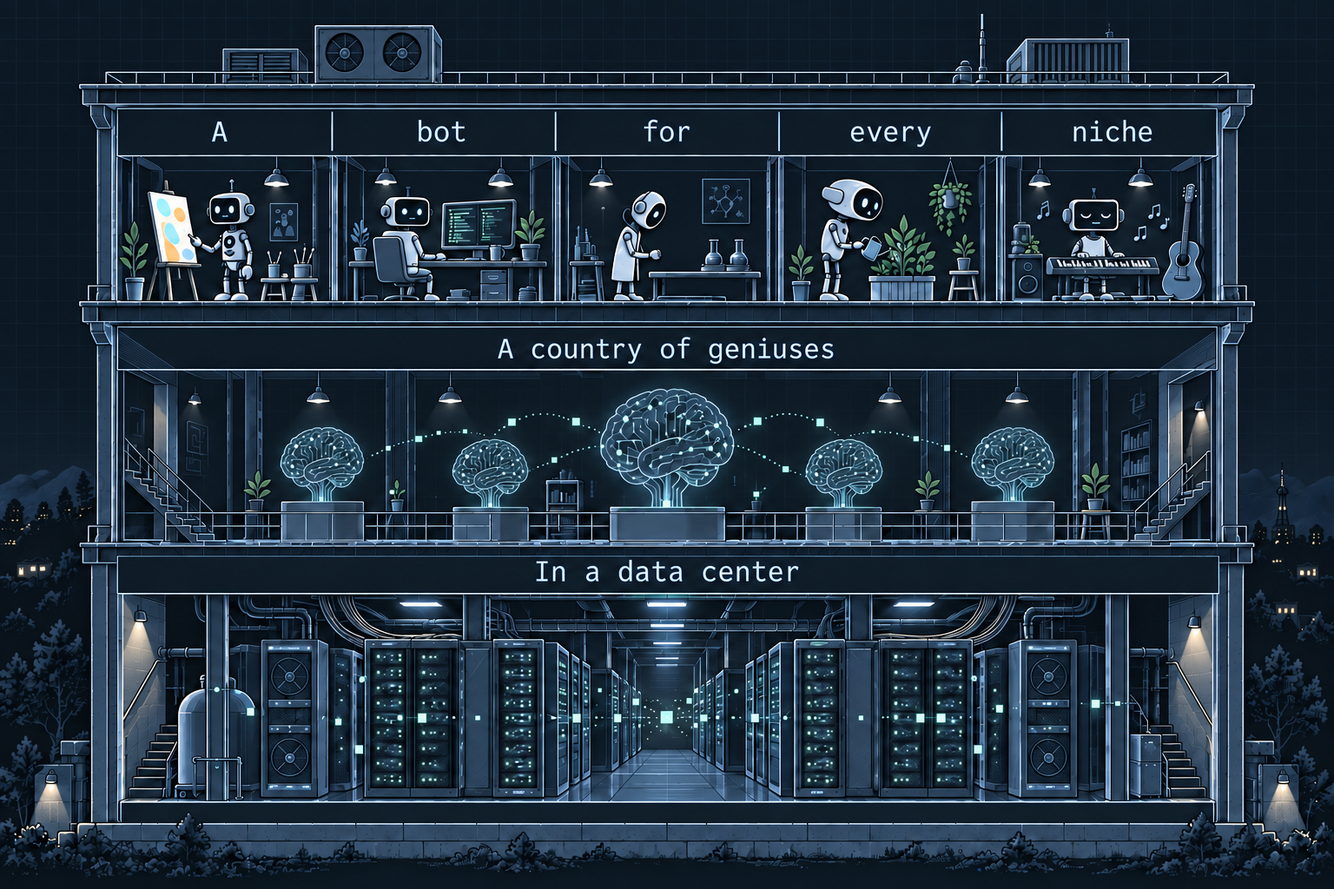
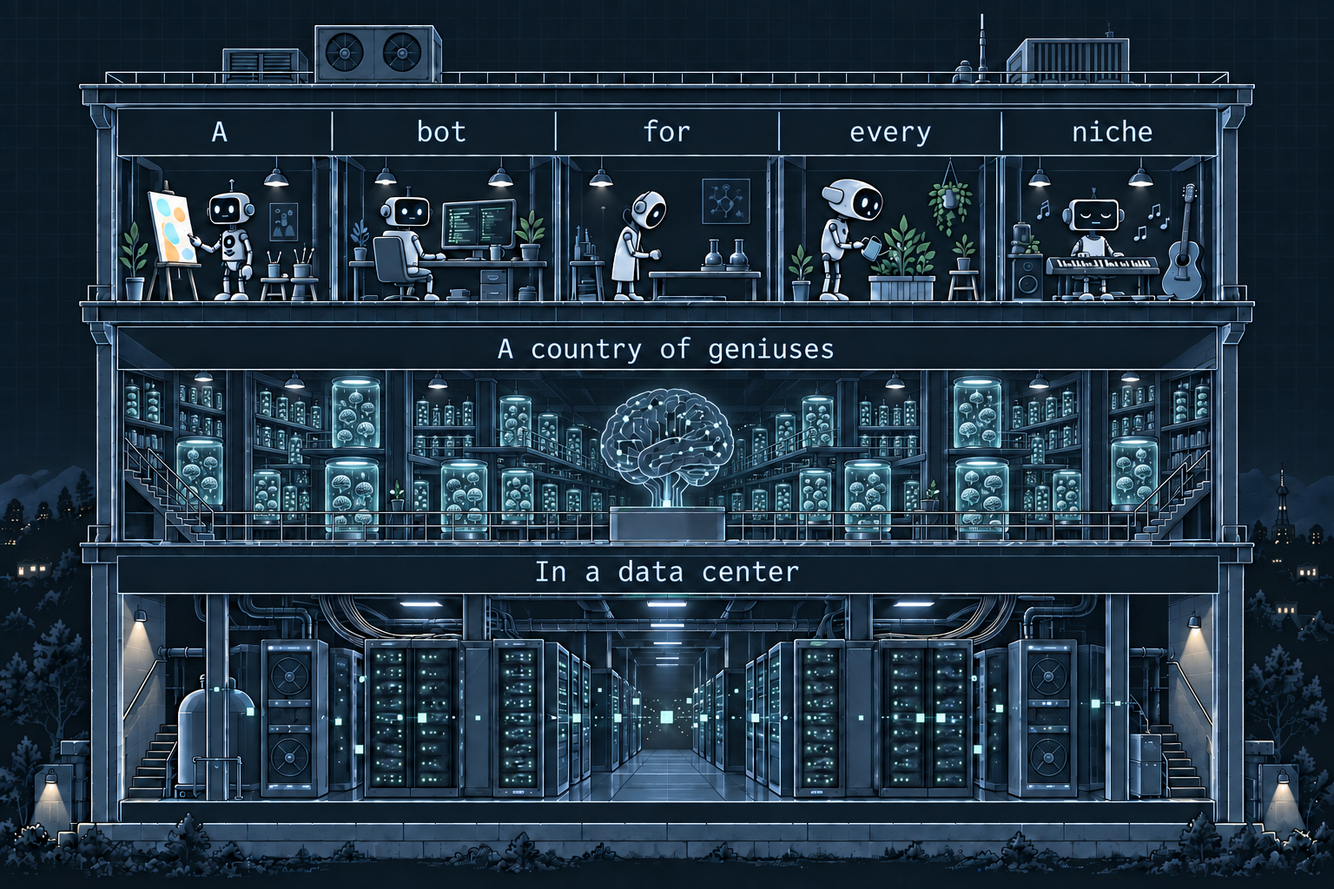
Fill AI 2026 genius floor with a country of brains

diff --git a/public/posts/ai2026-pt1/intro/building-intro.js b/public/posts/ai2026-pt1/intro/building-intro.js
@@ -4,8 +4,8 @@ if(customElements.get('ai-building-intro'))return;
 class AIBuildingIntro extends HTMLElement{
 connectedCallback(){
 if(this.shadowRoot)return;
-const root=this.attachShadow({mode:'open'});root.innerHTML="<style>\n:host{display:block;background:#0b1015;color:#d8e2ee;--intro-top:58px;font-family:ui-monospace,SFMono-Regular,Consolas,monospace;contain:style}\n*{box-sizing:border-box}.section{height:270svh;position:relative}.pin{position:sticky;top:var(--intro-top);height:calc(100svh - var(--intro-top));display:flex;flex-direction:column;overflow:hidden;background:#0b1015}.heading{flex:none;text-align:center;padding:18px 20px 10px}.eyebrow{font-size:12px;letter-spacing:.12em;color:#9aafbf;margin:0 0 7px}h1{font-size:clamp(24px,3vw,38px);font-weight:400;margin:0;line-height:1.2}.viewport{flex:1;min-height:0;display:flex;align-items:center;justify-content:center;overflow:hidden}.camera{position:relative;width:min(100%,calc((100svh - 200px)*1.5));aspect-ratio:3/2;flex:none;transform-origin:50% 80%;will-change:transform}.camera img,.camera svg{width:100%;height:100%;display:block}.camera img{position:relative}.camera svg{position:absolute;inset:0;overflow:visible;pointer-events:none}.controls{flex:none;display:flex;align-items:center;justify-content:center;gap:22px;padding:10px 16px 15px;background:#0b1015;font-size:12px}.skip{color:#a6bacb;text-decoration:none}.skip:hover{text-decoration:underline}a:focus-visible{outline:2px solid #baffea;outline-offset:3px}\n.server,.brain,.bot,.cursor,.drop{fill:#c7fff0;filter:drop-shadow(0 0 5px #80edda);opacity:.05;animation-delay:var(--delay)}.server{animation:server-pulse 2.4s ease-in-out infinite;animation-delay:var(--delay)}.rack{fill:#81edce;opacity:0;animation:rack-pulse 2.4s ease-in-out infinite;animation-delay:var(--delay)}.brain{animation:brain-beat 4s ease-in-out infinite;animation-delay:var(--delay)}.brain-halo{fill:#8af6df;filter:blur(3px);opacity:0;animation:brain-halo 4s ease-in-out infinite;animation-delay:var(--delay)}.bot{animation:bot-glint 3.8s ease-in-out infinite;animation-delay:var(--delay)}.cursor{animation:cursor-blink 1.8s steps(1) infinite;animation-delay:var(--delay)}.drop{animation:water 3.8s ease-in-out infinite;animation-delay:var(--delay)}.note{fill:none;stroke:#c5efff;stroke-width:2.5;opacity:0;filter:drop-shadow(0 0 3px #8ccfe8);animation:music 3.8s ease-in-out infinite;animation-delay:var(--delay)}\n@keyframes server-pulse{0%,100%{opacity:.03}42%{opacity:1}70%{opacity:.2}}@keyframes rack-pulse{0%,100%{opacity:0}42%{opacity:.09}70%{opacity:.01}}@keyframes brain-beat{0%,18%,100%{opacity:.02}5%,10%{opacity:1}}@keyframes brain-halo{0%,18%,100%{opacity:0}5%,10%{opacity:.42}}@keyframes bot-glint{0%,12%,50%,100%{opacity:.03}24%,34%{opacity:.95}}@keyframes cursor-blink{0%,55%{opacity:.85}56%,100%{opacity:0}}@keyframes water{0%,14%,55%,100%{opacity:0;transform:translateY(0)}22%{opacity:.9}48%{opacity:0;transform:translateY(14px)}}@keyframes music{0%,10%,58%,100%{opacity:0;transform:translateY(0)}23%{opacity:.95}53%{opacity:0;transform:translateY(-13px)}}\n:host([data-offscreen]) svg *{animation-play-state:paused!important}\n:host([preview]) .section{height:auto}:host([preview]) .pin{position:relative;top:0;height:auto;min-height:0}:host([preview]) .heading,:host([preview]) .skip{display:none}:host([preview]) .camera{width:100%;max-width:1400px}:host([preview]) .viewport{flex:none}:host([preview]) .controls{display:none}\n@media(max-width:760px){:host{--intro-top:52px}.section{height:220svh}.camera{width:100%}.heading{padding-top:24px}.controls{gap:15px}.pin{min-height:400px}}\n@media(prefers-reduced-motion:reduce){:host(:not([data-motion=play])) svg *{animation:none!important}.section{height:auto}.pin{position:relative;top:0;height:auto}.camera{width:100%;transform:none!important}.viewport{flex:none}.heading{padding:24px 16px}}\n.paint-brush{transform-origin:224px 278px;animation:brush-sweep 2.5s ease-in-out infinite alternate}.paint-stroke{stroke-dasharray:50;animation:paint-reveal 5s ease-in-out infinite}.code-flow{animation:matrix-flow 2.4s linear infinite}.scanline{animation:screen-scan 2.3s linear infinite}.lab-head{animation:lab-travel 3.6s ease-in-out infinite}.pipette-drop{animation:pipette 1.8s ease-in-out infinite}.water-stream{stroke-dasharray:3 4;animation:flowing-water .7s linear infinite;opacity:.85}.splash{animation:water-splash .7s ease-in-out infinite alternate}.music-note{animation:music-frequent 1.8s ease-out infinite;animation-delay:var(--delay);filter:drop-shadow(0 0 2px #a0ddec)}\n@keyframes brush-sweep{from{transform:rotate(-27deg)}to{transform:rotate(24deg)}}\n@keyframes paint-reveal{0%{stroke-dashoffset:50;opacity:.15}45%,70%{stroke-dashoffset:0;opacity:.8}100%{stroke-dashoffset:0;opacity:.15}}\n@keyframes matrix-flow{from{transform:translateY(0)}to{transform:translateY(-35px)}}\n@keyframes screen-scan{from{transform:translateY(-8px)}to{transform:translateY(38px)}}\n@keyframes lab-travel{0%,12%,100%{transform:translateX(0)}45%,62%{transform:translateX(12px)}}\n@keyframes pipette{0%,55%,100%{opacity:0;transform:translateY(0)}65%{opacity:.9}90%{opacity:0;transform:translateY(7px)}}\n@keyframes flowing-water{to{stroke-dashoffset:-21}}\n@keyframes water-splash{from{opacity:.3}to{opacity:.9}}\n@keyframes music-frequent{0%{opacity:0;transform:translate(0,5px)}12%,40%{opacity:1}100%{opacity:0;transform:translate(5px,-21px)}}\n</style><section class=\"section\"><div class=\"pin\"><div class=\"heading\"><p class=\"eyebrow\">AI 2026 / PART 1</p><h1>In a data center</h1></div><div class=\"viewport\"><div class=\"camera\"><img alt=\"Three floors: a bot for every niche; a country of geniuses; in a data center.\" width=\"1536\" height=\"1024\" decoding=\"async\" fetchpriority=\"high\"><svg viewBox=\"0 0 1536 1024\" aria-hidden=\"true\"><g class=\"floor-labels\" font-family=\"ui-monospace, SFMono-Regular, Consolas, monospace\" font-size=\"31\" font-weight=\"400\" text-anchor=\"middle\" fill=\"#d8e9f7\">\n<path d=\"M142 132H372V173H142ZM396 132H628V173H396ZM652 132H884V173H652ZM910 132H1140V173H910ZM1167 132H1395V173H1167Z\" fill=\"#0d1923\"/>\n<text x=\"253\" y=\"162\">A</text><text x=\"511\" y=\"162\">bot</text><text x=\"767\" y=\"162\">for</text><text x=\"1024\" y=\"162\">every</text><text x=\"1278\" y=\"162\">niche</text>\n<path d=\"M557 382H980V419H557Z\" fill=\"#0d1923\"/>\n<text x=\"768\" y=\"413\">A country of geniuses</text>\n<path d=\"M552 643H984V678H552Z\" fill=\"#0d1923\"/>\n<text x=\"768\" y=\"669\">In a data center</text>\n</g>\n<rect x=\"433\" y=\"775\" width=\"5\" height=\"3\" rx=\"1\" class=\"server\" style=\"--delay:0.0s\"/><rect x=\"433\" y=\"792\" width=\"5\" height=\"3\" rx=\"1\" class=\"server\" style=\"--delay:0.0s\"/><rect x=\"433\" y=\"843\" width=\"5\" height=\"3\" rx=\"1\" class=\"server\" style=\"--delay:0.0s\"/><rect x=\"433\" y=\"861\" width=\"5\" height=\"3\" rx=\"1\" class=\"server\" style=\"--delay:0.0s\"/><rect x=\"433\" y=\"897\" width=\"5\" height=\"3\" rx=\"1\" class=\"server\" style=\"--delay:0.0s\"/><rect x=\"450\" y=\"756\" width=\"5\" height=\"3\" rx=\"1\" class=\"server\" style=\"--delay:-0.12s\"/><rect x=\"450\" y=\"775\" width=\"5\" height=\"3\" rx=\"1\" class=\"server\" style=\"--delay:-0.12s\"/><rect x=\"450\" y=\"809\" width=\"5\" height=\"3\" rx=\"1\" class=\"server\" style=\"--delay:-0.12s\"/><rect x=\"450\" y=\"843\" width=\"5\" height=\"3\" rx=\"1\" class=\"server\" style=\"--delay:-0.12s\"/><rect x=\"450\" y=\"879\" width=\"5\" height=\"3\" rx=\"1\" class=\"server\" style=\"--delay:-0.12s\"/><rect x=\"450\" y=\"897\" width=\"5\" height=\"3\" rx=\"1\" class=\"server\" style=\"--delay:-0.12s\"/><rect x=\"489\" y=\"756\" width=\"5\" height=\"3\" rx=\"1\" class=\"server\" style=\"--delay:-0.24s\"/><rect x=\"489\" y=\"792\" width=\"5\" height=\"3\" rx=\"1\" class=\"server\" style=\"--delay:-0.24s\"/><rect x=\"489\" y=\"809\" width=\"5\" height=\"3\" rx=\"1\" class=\"server\" style=\"--delay:-0.24s\"/><rect x=\"489\" y=\"861\" width=\"5\" height=\"3\" rx=\"1\" class=\"server\" style=\"--delay:-0.24s\"/><rect x=\"489\" y=\"879\" width=\"5\" height=\"3\" rx=\"1\" class=\"server\" style=\"--delay:-0.24s\"/><rect x=\"499\" y=\"775\" width=\"5\" height=\"3\" rx=\"1\" class=\"server\" style=\"--delay:0.0s\"/><rect x=\"499\" y=\"792\" width=\"5\" height=\"3\" rx=\"1\" class=\"server\" style=\"--delay:0.0s\"/><rect x=\"499\" y=\"843\" width=\"5\" height=\"3\" rx=\"1\" class=\"server\" style=\"--delay:0.0s\"/><rect x=\"499\" y=\"861\" width=\"5\" height=\"3\" rx=\"1\" class=\"server\" style=\"--delay:0.0s\"/><rect x=\"499\" y=\"897\" width=\"5\" height=\"3\" rx=\"1\" class=\"server\" style=\"--delay:0.0s\"/><rect x=\"589\" y=\"756\" width=\"5\" height=\"3\" rx=\"1\" class=\"server\" style=\"--delay:-0.12s\"/><rect x=\"589\" y=\"775\" width=\"5\" height=\"3\" rx=\"1\" class=\"server\" style=\"--delay:-0.12s\"/><rect x=\"589\" y=\"809\" width=\"5\" height=\"3\" rx=\"1\" class=\"server\" style=\"--delay:-0.12s\"/><rect x=\"589\" y=\"843\" width=\"5\" height=\"3\" rx=\"1\" class=\"server\" style=\"--delay:-0.12s\"/><rect x=\"589\" y=\"879\" width=\"5\" height=\"3\" rx=\"1\" class=\"server\" style=\"--delay:-0.12s\"/><rect x=\"589\" y=\"897\" width=\"5\" height=\"3\" rx=\"1\" class=\"server\" style=\"--delay:-0.12s\"/><rect x=\"606\" y=\"756\" width=\"5\" height=\"3\" rx=\"1\" class=\"server\" style=\"--delay:-0.24s\"/><rect x=\"606\" y=\"792\" width=\"5\" height=\"3\" rx=\"1\" class=\"server\" style=\"--delay:-0.24s\"/><rect x=\"606\" y=\"809\" width=\"5\" height=\"3\" rx=\"1\" class=\"server\" style=\"--delay:-0.24s\"/><rect x=\"606\" y=\"861\" width=\"5\" height=\"3\" rx=\"1\" class=\"server\" style=\"--delay:-0.24s\"/><rect x=\"606\" y=\"879\" width=\"5\" height=\"3\" rx=\"1\" class=\"server\" style=\"--delay:-0.24s\"/><rect x=\"933\" y=\"775\" width=\"5\" height=\"3\" rx=\"1\" class=\"server\" style=\"--delay:0.0s\"/><rect x=\"933\" y=\"792\" width=\"5\" height=\"3\" rx=\"1\" class=\"server\" style=\"--delay:0.0s\"/><rect x=\"933\" y=\"843\" width=\"5\" height=\"3\" rx=\"1\" class=\"server\" style=\"--delay:0.0s\"/><rect x=\"933\" y=\"861\" width=\"5\" height=\"3\" rx=\"1\" class=\"server\" style=\"--delay:0.0s\"/><rect x=\"933\" y=\"897\" width=\"5\" height=\"3\" rx=\"1\" class=\"server\" style=\"--delay:0.0s\"/><rect x=\"950\" y=\"756\" width=\"5\" height=\"3\" rx=\"1\" class=\"server\" style=\"--delay:-0.12s\"/><rect x=\"950\" y=\"775\" width=\"5\" height=\"3\" rx=\"1\" class=\"server\" style=\"--delay:-0.12s\"/><rect x=\"950\" y=\"809\" width=\"5\" height=\"3\" rx=\"1\" class=\"server\" style=\"--delay:-0.12s\"/><rect x=\"950\" y=\"843\" width=\"5\" height=\"3\" rx=\"1\" class=\"server\" style=\"--delay:-0.12s\"/><rect x=\"950\" y=\"879\" width=\"5\" height=\"3\" rx=\"1\" class=\"server\" style=\"--delay:-0.12s\"/><rect x=\"950\" y=\"897\" width=\"5\" height=\"3\" rx=\"1\" class=\"server\" style=\"--delay:-0.12s\"/><rect x=\"1032\" y=\"756\" width=\"5\" height=\"3\" rx=\"1\" class=\"server\" style=\"--delay:-0.24s\"/><rect x=\"1032\" y=\"792\" width=\"5\" height=\"3\" rx=\"1\" class=\"server\" style=\"--delay:-0.24s\"/><rect x=\"1032\" y=\"809\" width=\"5\" height=\"3\" rx=\"1\" class=\"server\" style=\"--delay:-0.24s\"/><rect x=\"1032\" y=\"861\" width=\"5\" height=\"3\" rx=\"1\" class=\"server\" style=\"--delay:-0.24s\"/><rect x=\"1032\" y=\"879\" width=\"5\" height=\"3\" rx=\"1\" class=\"server\" style=\"--delay:-0.24s\"/><rect x=\"1049\" y=\"775\" width=\"5\" height=\"3\" rx=\"1\" class=\"server\" style=\"--delay:0.0s\"/><rect x=\"1049\" y=\"792\" width=\"5\" height=\"3\" rx=\"1\" class=\"server\" style=\"--delay:0.0s\"/><rect x=\"1049\" y=\"843\" width=\"5\" height=\"3\" rx=\"1\" class=\"server\" style=\"--delay:0.0s\"/><rect x=\"1049\" y=\"861\" width=\"5\" height=\"3\" rx=\"1\" class=\"server\" style=\"--delay:0.0s\"/><rect x=\"1049\" y=\"897\" width=\"5\" height=\"3\" rx=\"1\" class=\"server\" style=\"--delay:0.0s\"/><rect x=\"1082\" y=\"756\" width=\"5\" height=\"3\" rx=\"1\" class=\"server\" style=\"--delay:-0.12s\"/><rect x=\"1082\" y=\"775\" width=\"5\" height=\"3\" rx=\"1\" class=\"server\" style=\"--delay:-0.12s\"/><rect x=\"1082\" y=\"809\" width=\"5\" height=\"3\" rx=\"1\" class=\"server\" style=\"--delay:-0.12s\"/><rect x=\"1082\" y=\"843\" width=\"5\" height=\"3\" rx=\"1\" class=\"server\" style=\"--delay:-0.12s\"/><rect x=\"1082\" y=\"879\" width=\"5\" height=\"3\" rx=\"1\" class=\"server\" style=\"--delay:-0.12s\"/><rect x=\"1082\" y=\"897\" width=\"5\" height=\"3\" rx=\"1\" class=\"server\" style=\"--delay:-0.12s\"/><rect x=\"1097\" y=\"756\" width=\"5\" height=\"3\" rx=\"1\" class=\"server\" style=\"--delay:-0.24s\"/><rect x=\"1097\" y=\"792\" width=\"5\" height=\"3\" rx=\"1\" class=\"server\" style=\"--delay:-0.24s\"/><rect x=\"1097\" y=\"809\" width=\"5\" height=\"3\" rx=\"1\" class=\"server\" style=\"--delay:-0.24s\"/><rect x=\"1097\" y=\"861\" width=\"5\" height=\"3\" rx=\"1\" class=\"server\" style=\"--delay:-0.24s\"/><rect x=\"1097\" y=\"879\" width=\"5\" height=\"3\" rx=\"1\" class=\"server\" style=\"--delay:-0.24s\"/><rect x=\"424\" y=\"747\" width=\"90\" height=\"159\" rx=\"5\" class=\"rack\" style=\"--delay:0.0s\"/><rect x=\"580\" y=\"747\" width=\"38\" height=\"159\" rx=\"5\" class=\"rack\" style=\"--delay:-0.09s\"/><rect x=\"925\" y=\"747\" width=\"43\" height=\"159\" rx=\"5\" class=\"rack\" style=\"--delay:-0.18s\"/><rect x=\"1026\" y=\"747\" width=\"85\" height=\"159\" rx=\"5\" class=\"rack\" style=\"--delay:-0.27s\"/><circle cx=\"341\" cy=\"522\" r=\"8\" class=\"brain-halo\" style=\"--delay:-4.0s\"/><circle cx=\"341\" cy=\"522\" r=\"3.6\" class=\"brain\" style=\"--delay:-4.0s\"/><circle cx=\"362\" cy=\"510\" r=\"8\" class=\"brain-halo\" style=\"--delay:-3.62s\"/><circle cx=\"362\" cy=\"510\" r=\"3.6\" class=\"brain\" style=\"--delay:-3.62s\"/><circle cx=\"384\" cy=\"522\" r=\"8\" class=\"brain-halo\" style=\"--delay:-3.24s\"/><circle cx=\"384\" cy=\"522\" r=\"3.6\" class=\"brain\" style=\"--delay:-3.24s\"/><circle cx=\"394\" cy=\"544\" r=\"8\" class=\"brain-halo\" style=\"--delay:-2.86s\"/><circle cx=\"394\" cy=\"544\" r=\"3.6\" class=\"brain\" style=\"--delay:-2.86s\"/><circle cx=\"539\" cy=\"529\" r=\"8\" class=\"brain-halo\" style=\"--delay:-4.63s\"/><circle cx=\"539\" cy=\"529\" r=\"3.6\" class=\"brain\" style=\"--delay:-4.63s\"/><circle cx=\"556\" cy=\"519\" r=\"8\" class=\"brain-halo\" style=\"--delay:-4.25s\"/><circle cx=\"556\" cy=\"519\" r=\"3.6\" class=\"brain\" style=\"--delay:-4.25s\"/><circle cx=\"580\" cy=\"535\" r=\"8\" class=\"brain-halo\" style=\"--delay:-3.87s\"/><circle cx=\"580\" cy=\"535\" r=\"3.6\" class=\"brain\" style=\"--delay:-3.87s\"/><circle cx=\"575\" cy=\"553\" r=\"8\" class=\"brain-halo\" style=\"--delay:-3.4899999999999998s\"/><circle cx=\"575\" cy=\"553\" r=\"3.6\" class=\"brain\" style=\"--delay:-3.4899999999999998s\"/><circle cx=\"719\" cy=\"484\" r=\"10\" class=\"brain-halo\" style=\"--delay:-5.26s\"/><circle cx=\"719\" cy=\"484\" r=\"4\" class=\"brain\" style=\"--delay:-5.26s\"/><circle cx=\"750\" cy=\"469\" r=\"10\" class=\"brain-halo\" style=\"--delay:-4.88s\"/><circle cx=\"750\" cy=\"469\" r=\"4\" class=\"brain\" style=\"--delay:-4.88s\"/><circle cx=\"793\" cy=\"484\" r=\"10\" class=\"brain-halo\" style=\"--delay:-4.5s\"/><circle cx=\"793\" cy=\"484\" r=\"4\" class=\"brain\" style=\"--delay:-4.5s\"/><circle cx=\"814\" cy=\"520\" r=\"10\" class=\"brain-halo\" style=\"--delay:-4.12s\"/><circle cx=\"814\" cy=\"520\" r=\"4\" class=\"brain\" style=\"--delay:-4.12s\"/><circle cx=\"947\" cy=\"533\" r=\"8\" class=\"brain-halo\" style=\"--delay:-5.890000000000001s\"/><circle cx=\"947\" cy=\"533\" r=\"3.6\" class=\"brain\" style=\"--delay:-5.890000000000001s\"/><circle cx=\"965\" cy=\"521\" r=\"8\" class=\"brain-halo\" style=\"--delay:-5.51s\"/><circle cx=\"965\" cy=\"521\" r=\"3.6\" class=\"brain\" style=\"--delay:-5.51s\"/><circle cx=\"987\" cy=\"533\" r=\"8\" class=\"brain-halo\" style=\"--delay:-5.13s\"/><circle cx=\"987\" cy=\"533\" r=\"3.6\" class=\"brain\" style=\"--delay:-5.13s\"/><circle cx=\"994\" cy=\"551\" r=\"8\" class=\"brain-halo\" style=\"--delay:-4.75s\"/><circle cx=\"994\" cy=\"551\" r=\"3.6\" class=\"brain\" style=\"--delay:-4.75s\"/><circle cx=\"1139\" cy=\"518\" r=\"8\" class=\"brain-halo\" style=\"--delay:-6.52s\"/><circle cx=\"1139\" cy=\"518\" r=\"3.6\" class=\"brain\" style=\"--delay:-6.52s\"/><circle cx=\"1160\" cy=\"508\" r=\"8\" class=\"brain-halo\" style=\"--delay:-6.140000000000001s\"/><circle cx=\"1160\" cy=\"508\" r=\"3.6\" class=\"brain\" style=\"--delay:-6.140000000000001s\"/><circle cx=\"1183\" cy=\"526\" r=\"8\" class=\"brain-halo\" style=\"--delay:-5.76s\"/><circle cx=\"1183\" cy=\"526\" r=\"3.6\" class=\"brain\" style=\"--delay:-5.76s\"/><circle cx=\"1194\" cy=\"542\" r=\"8\" class=\"brain-halo\" style=\"--delay:-5.38s\"/><circle cx=\"1194\" cy=\"542\" r=\"3.6\" class=\"brain\" style=\"--delay:-5.38s\"/><defs>\n<clipPath id=\"screen-clip\"><path d=\"M516 238L587 234L586 278L516 280Z\"/></clipPath>\n<clipPath id=\"painting-clip\"><path d=\"M179 226L210 231L225 302L187 299Z\"/></clipPath>\n</defs>\n<g clip-path=\"url(#painting-clip)\"><path class=\"paint-stroke\" d=\"M190 258Q199 259 207 270T214 290\" fill=\"none\" stroke=\"#95d8e6\" stroke-width=\"5\" stroke-linecap=\"round\"/></g>\n<g class=\"paint-brush\">\n<path d=\"M224 278L198 260\" stroke=\"#d4af87\" stroke-width=\"2.8\" stroke-linecap=\"round\"/>\n<path d=\"M201 262L197 259\" stroke=\"#b7d4e6\" stroke-width=\"3.5\"/>\n<path d=\"M198 260Q193 260 191 254Q197 254 198 260\" fill=\"#a5e1ef\" stroke=\"#c9f2f5\" stroke-width=\".7\"/>\n</g>\n<g clip-path=\"url(#screen-clip)\">\n<path d=\"M516 238L587 234L586 278L516 280Z\" fill=\"#091d22\"/>\n<g class=\"code-flow\" fill=\"#87d6ac\" font-family=\"monospace\" font-size=\"5\" letter-spacing=\"1.1\">\n<text x=\"519\" y=\"219\">101 011 fn(x)</text><text x=\"519\" y=\"226\" fill=\"#d0f1d8\">010 110 =&gt; 1</text>\n<text x=\"519\" y=\"233\">001 for 101</text><text x=\"519\" y=\"240\">110 001 010</text>\n<text x=\"519\" y=\"247\" fill=\"#c9f7df\">010 return x</text><text x=\"519\" y=\"254\">101 011 fn(x)</text>\n<text x=\"519\" y=\"261\" fill=\"#d0f1d8\">010 110 =&gt; 1</text><text x=\"519\" y=\"268\">001 for 101</text>\n<text x=\"519\" y=\"275\">110 001 010</text><text x=\"519\" y=\"282\" fill=\"#c9f7df\">010 return x</text>\n<text x=\"519\" y=\"289\">101 011 fn(x)</text><text x=\"519\" y=\"296\" fill=\"#d0f1d8\">010 110 =&gt; 1</text>\n</g>\n<path class=\"scanline\" d=\"M516 242H588\" stroke=\"#b6f9d6\" stroke-width=\"1\" opacity=\".4\"/>\n</g>\n<g class=\"lab-frame\" stroke=\"#8fa9c2\" stroke-width=\"1.3\" stroke-linejoin=\"round\">\n<path d=\"M768 306H811V310H768Z\" fill=\"#263b4b\"/>\n<path d=\"M771 305V260H776V305\" fill=\"#172b3b\"/>\n<path d=\"M774 260H807V264H774Z\" fill=\"#638096\"/>\n<path d=\"M785 307V298H790V307M796 307V298H801V307\" fill=\"#163b46\"/>\n</g>\n<g class=\"lab-head\" stroke=\"#a9c5d9\" stroke-width=\"1.1\">\n<path d=\"M780 260H791V277H780Z\" fill=\"#48677e\"/>\n<path d=\"M783 277H788L787 289H785Z\" fill=\"#c0d8e7\"/>\n<circle cx=\"785\" cy=\"267\" r=\"1.5\" fill=\"#a7f5dd\" stroke=\"none\"/>\n<path class=\"pipette-drop\" d=\"M786 291q-2.5 4 0 4t0-4\" fill=\"#a3efdf\" stroke=\"none\"/>\n</g>\n<g fill=\"none\" stroke=\"#a5e4f3\" stroke-linecap=\"round\">\n<path class=\"water-stream\" d=\"M1018 289Q1024 299 1030 313\" stroke-width=\"1.5\"/>\n<path class=\"water-stream\" style=\"animation-delay:-.2s\" d=\"M1021 288Q1029 300 1035 310\" stroke-width=\"1.3\"/>\n<path class=\"water-stream\" style=\"animation-delay:-.4s\" d=\"M1020 291Q1023 304 1027 316\" stroke-width=\"1.1\"/>\n<path class=\"splash\" d=\"M1027 314l-3-2m8 2 3-3m-4 5 4 1\" stroke-width=\"1.3\"/>\n</g>\n<g fill=\"none\" stroke=\"#c5efff\" stroke-width=\"2.1\" stroke-linecap=\"round\">\n<path class=\"music-note\" style=\"--delay:0s\" d=\"M1299 286v-12l7-2v11 M1299 286c-4-2-7 2-3 3 2 0 3-1 3-3 M1306 283c-4-2-7 2-3 3 2 0 3-1 3-3\"/>\n<path class=\"music-note\" style=\"--delay:-.6s\" d=\"M1323 281v-12l7-2v11 M1323 281c-4-2-7 2-3 3 2 0 3-1 3-3 M1330 278c-4-2-7 2-3 3 2 0 3-1 3-3\"/>\n<path class=\"music-note\" style=\"--delay:-1.2s\" d=\"M1201 286v-13l6 3 M1201 286c-4-2-7 2-3 3 2 0 3-1 3-3\"/>\n</g>\n</svg></div></div><div class=\"controls\"><a class=\"skip\" href=\"#chart-1\">Continue to the charts \u2193</a></div></div></section>";
-const img=root.querySelector('img');const imageSource=this.getAttribute('image-src')||'/posts/ai2026-pt1/intro/building.webp';img.src=imageSource+(imageSource.includes('?')?'&':'?')+'v=sharp-1';
+const root=this.attachShadow({mode:'open'});root.innerHTML="<style>\n:host{display:block;background:#0b1015;color:#d8e2ee;--intro-top:58px;font-family:ui-monospace,SFMono-Regular,Consolas,monospace;contain:style}\n*{box-sizing:border-box}.section{height:270svh;position:relative}.pin{position:sticky;top:var(--intro-top);height:calc(100svh - var(--intro-top));display:flex;flex-direction:column;overflow:hidden;background:#0b1015}.heading{flex:none;text-align:center;padding:18px 20px 10px}.eyebrow{font-size:12px;letter-spacing:.12em;color:#9aafbf;margin:0 0 7px}h1{font-size:clamp(24px,3vw,38px);font-weight:400;margin:0;line-height:1.2}.viewport{flex:1;min-height:0;display:flex;align-items:center;justify-content:center;overflow:hidden}.camera{position:relative;width:min(100%,calc((100svh - 200px)*1.5));aspect-ratio:3/2;flex:none;transform-origin:50% 80%;will-change:transform}.camera img,.camera svg{width:100%;height:100%;display:block}.camera img{position:relative}.camera svg{position:absolute;inset:0;overflow:visible;pointer-events:none}.controls{flex:none;display:flex;align-items:center;justify-content:center;gap:22px;padding:10px 16px 15px;background:#0b1015;font-size:12px}.skip{color:#a6bacb;text-decoration:none}.skip:hover{text-decoration:underline}a:focus-visible{outline:2px solid #baffea;outline-offset:3px}\n.server,.brain,.bot,.cursor,.drop{fill:#c7fff0;filter:drop-shadow(0 0 5px #80edda);opacity:.05;animation-delay:var(--delay)}.server{animation:server-pulse 2.4s ease-in-out infinite;animation-delay:var(--delay)}.rack{fill:#81edce;opacity:0;animation:rack-pulse 2.4s ease-in-out infinite;animation-delay:var(--delay)}.brain{animation:brain-beat 4s ease-in-out infinite;animation-delay:var(--delay)}.brain-halo{fill:#8af6df;filter:blur(3px);opacity:0;animation:brain-halo 4s ease-in-out infinite;animation-delay:var(--delay)}.bot{animation:bot-glint 3.8s ease-in-out infinite;animation-delay:var(--delay)}.cursor{animation:cursor-blink 1.8s steps(1) infinite;animation-delay:var(--delay)}.drop{animation:water 3.8s ease-in-out infinite;animation-delay:var(--delay)}.note{fill:none;stroke:#c5efff;stroke-width:2.5;opacity:0;filter:drop-shadow(0 0 3px #8ccfe8);animation:music 3.8s ease-in-out infinite;animation-delay:var(--delay)}\n@keyframes server-pulse{0%,100%{opacity:.03}42%{opacity:1}70%{opacity:.2}}@keyframes rack-pulse{0%,100%{opacity:0}42%{opacity:.09}70%{opacity:.01}}@keyframes brain-beat{0%,18%,100%{opacity:.02}5%,10%{opacity:1}}@keyframes brain-halo{0%,18%,100%{opacity:0}5%,10%{opacity:.42}}@keyframes bot-glint{0%,12%,50%,100%{opacity:.03}24%,34%{opacity:.95}}@keyframes cursor-blink{0%,55%{opacity:.85}56%,100%{opacity:0}}@keyframes water{0%,14%,55%,100%{opacity:0;transform:translateY(0)}22%{opacity:.9}48%{opacity:0;transform:translateY(14px)}}@keyframes music{0%,10%,58%,100%{opacity:0;transform:translateY(0)}23%{opacity:.95}53%{opacity:0;transform:translateY(-13px)}}\n:host([data-offscreen]) svg *{animation-play-state:paused!important}\n:host([preview]) .section{height:auto}:host([preview]) .pin{position:relative;top:0;height:auto;min-height:0}:host([preview]) .heading,:host([preview]) .skip{display:none}:host([preview]) .camera{width:100%;max-width:1400px}:host([preview]) .viewport{flex:none}:host([preview]) .controls{display:none}\n@media(max-width:760px){:host{--intro-top:52px}.section{height:220svh}.camera{width:100%}.heading{padding-top:24px}.controls{gap:15px}.pin{min-height:400px}}\n@media(prefers-reduced-motion:reduce){:host(:not([data-motion=play])) svg *{animation:none!important}.section{height:auto}.pin{position:relative;top:0;height:auto}.camera{width:100%;transform:none!important}.viewport{flex:none}.heading{padding:24px 16px}}\n.paint-brush{transform-origin:224px 278px;animation:brush-sweep 2.5s ease-in-out infinite alternate}.paint-stroke{stroke-dasharray:50;animation:paint-reveal 5s ease-in-out infinite}.code-flow{animation:matrix-flow 2.4s linear infinite}.scanline{animation:screen-scan 2.3s linear infinite}.lab-head{animation:lab-travel 3.6s ease-in-out infinite}.pipette-drop{animation:pipette 1.8s ease-in-out infinite}.water-stream{stroke-dasharray:3 4;animation:flowing-water .7s linear infinite;opacity:.85}.splash{animation:water-splash .7s ease-in-out infinite alternate}.music-note{animation:music-frequent 1.8s ease-out infinite;animation-delay:var(--delay);filter:drop-shadow(0 0 2px #a0ddec)}\n@keyframes brush-sweep{from{transform:rotate(-27deg)}to{transform:rotate(24deg)}}\n@keyframes paint-reveal{0%{stroke-dashoffset:50;opacity:.15}45%,70%{stroke-dashoffset:0;opacity:.8}100%{stroke-dashoffset:0;opacity:.15}}\n@keyframes matrix-flow{from{transform:translateY(0)}to{transform:translateY(-35px)}}\n@keyframes screen-scan{from{transform:translateY(-8px)}to{transform:translateY(38px)}}\n@keyframes lab-travel{0%,12%,100%{transform:translateX(0)}45%,62%{transform:translateX(12px)}}\n@keyframes pipette{0%,55%,100%{opacity:0;transform:translateY(0)}65%{opacity:.9}90%{opacity:0;transform:translateY(7px)}}\n@keyframes flowing-water{to{stroke-dashoffset:-21}}\n@keyframes water-splash{from{opacity:.3}to{opacity:.9}}\n@keyframes music-frequent{0%{opacity:0;transform:translate(0,5px)}12%,40%{opacity:1}100%{opacity:0;transform:translate(5px,-21px)}}\n</style><section class=\"section\"><div class=\"pin\"><div class=\"heading\"><p class=\"eyebrow\">AI 2026 / PART 1</p><h1>In a data center</h1></div><div class=\"viewport\"><div class=\"camera\"><img alt=\"Three floors: five niche bots; one central brain surrounded by shelves of jars filled with hundreds of smaller brains receding into the distance; a data center.\" width=\"1536\" height=\"1024\" decoding=\"async\" fetchpriority=\"high\"><svg viewBox=\"0 0 1536 1024\" aria-hidden=\"true\"><g class=\"floor-labels\" font-family=\"ui-monospace, SFMono-Regular, Consolas, monospace\" font-size=\"31\" font-weight=\"400\" text-anchor=\"middle\" fill=\"#d8e9f7\">\n<path d=\"M142 132H372V173H142ZM396 132H628V173H396ZM652 132H884V173H652ZM910 132H1140V173H910ZM1167 132H1395V173H1167Z\" fill=\"#0d1923\"/>\n<text x=\"253\" y=\"162\">A</text><text x=\"511\" y=\"162\">bot</text><text x=\"767\" y=\"162\">for</text><text x=\"1024\" y=\"162\">every</text><text x=\"1278\" y=\"162\">niche</text>\n<path d=\"M557 382H980V419H557Z\" fill=\"#0d1923\"/>\n<text x=\"768\" y=\"413\">A country of geniuses</text>\n<path d=\"M552 643H984V678H552Z\" fill=\"#0d1923\"/>\n<text x=\"768\" y=\"669\">In a data center</text>\n</g>\n<rect x=\"433\" y=\"775\" width=\"5\" height=\"3\" rx=\"1\" class=\"server\" style=\"--delay:0.0s\"/><rect x=\"433\" y=\"792\" width=\"5\" height=\"3\" rx=\"1\" class=\"server\" style=\"--delay:0.0s\"/><rect x=\"433\" y=\"843\" width=\"5\" height=\"3\" rx=\"1\" class=\"server\" style=\"--delay:0.0s\"/><rect x=\"433\" y=\"861\" width=\"5\" height=\"3\" rx=\"1\" class=\"server\" style=\"--delay:0.0s\"/><rect x=\"433\" y=\"897\" width=\"5\" height=\"3\" rx=\"1\" class=\"server\" style=\"--delay:0.0s\"/><rect x=\"450\" y=\"756\" width=\"5\" height=\"3\" rx=\"1\" class=\"server\" style=\"--delay:-0.12s\"/><rect x=\"450\" y=\"775\" width=\"5\" height=\"3\" rx=\"1\" class=\"server\" style=\"--delay:-0.12s\"/><rect x=\"450\" y=\"809\" width=\"5\" height=\"3\" rx=\"1\" class=\"server\" style=\"--delay:-0.12s\"/><rect x=\"450\" y=\"843\" width=\"5\" height=\"3\" rx=\"1\" class=\"server\" style=\"--delay:-0.12s\"/><rect x=\"450\" y=\"879\" width=\"5\" height=\"3\" rx=\"1\" class=\"server\" style=\"--delay:-0.12s\"/><rect x=\"450\" y=\"897\" width=\"5\" height=\"3\" rx=\"1\" class=\"server\" style=\"--delay:-0.12s\"/><rect x=\"489\" y=\"756\" width=\"5\" height=\"3\" rx=\"1\" class=\"server\" style=\"--delay:-0.24s\"/><rect x=\"489\" y=\"792\" width=\"5\" height=\"3\" rx=\"1\" class=\"server\" style=\"--delay:-0.24s\"/><rect x=\"489\" y=\"809\" width=\"5\" height=\"3\" rx=\"1\" class=\"server\" style=\"--delay:-0.24s\"/><rect x=\"489\" y=\"861\" width=\"5\" height=\"3\" rx=\"1\" class=\"server\" style=\"--delay:-0.24s\"/><rect x=\"489\" y=\"879\" width=\"5\" height=\"3\" rx=\"1\" class=\"server\" style=\"--delay:-0.24s\"/><rect x=\"499\" y=\"775\" width=\"5\" height=\"3\" rx=\"1\" class=\"server\" style=\"--delay:0.0s\"/><rect x=\"499\" y=\"792\" width=\"5\" height=\"3\" rx=\"1\" class=\"server\" style=\"--delay:0.0s\"/><rect x=\"499\" y=\"843\" width=\"5\" height=\"3\" rx=\"1\" class=\"server\" style=\"--delay:0.0s\"/><rect x=\"499\" y=\"861\" width=\"5\" height=\"3\" rx=\"1\" class=\"server\" style=\"--delay:0.0s\"/><rect x=\"499\" y=\"897\" width=\"5\" height=\"3\" rx=\"1\" class=\"server\" style=\"--delay:0.0s\"/><rect x=\"589\" y=\"756\" width=\"5\" height=\"3\" rx=\"1\" class=\"server\" style=\"--delay:-0.12s\"/><rect x=\"589\" y=\"775\" width=\"5\" height=\"3\" rx=\"1\" class=\"server\" style=\"--delay:-0.12s\"/><rect x=\"589\" y=\"809\" width=\"5\" height=\"3\" rx=\"1\" class=\"server\" style=\"--delay:-0.12s\"/><rect x=\"589\" y=\"843\" width=\"5\" height=\"3\" rx=\"1\" class=\"server\" style=\"--delay:-0.12s\"/><rect x=\"589\" y=\"879\" width=\"5\" height=\"3\" rx=\"1\" class=\"server\" style=\"--delay:-0.12s\"/><rect x=\"589\" y=\"897\" width=\"5\" height=\"3\" rx=\"1\" class=\"server\" style=\"--delay:-0.12s\"/><rect x=\"606\" y=\"756\" width=\"5\" height=\"3\" rx=\"1\" class=\"server\" style=\"--delay:-0.24s\"/><rect x=\"606\" y=\"792\" width=\"5\" height=\"3\" rx=\"1\" class=\"server\" style=\"--delay:-0.24s\"/><rect x=\"606\" y=\"809\" width=\"5\" height=\"3\" rx=\"1\" class=\"server\" style=\"--delay:-0.24s\"/><rect x=\"606\" y=\"861\" width=\"5\" height=\"3\" rx=\"1\" class=\"server\" style=\"--delay:-0.24s\"/><rect x=\"606\" y=\"879\" width=\"5\" height=\"3\" rx=\"1\" class=\"server\" style=\"--delay:-0.24s\"/><rect x=\"933\" y=\"775\" width=\"5\" height=\"3\" rx=\"1\" class=\"server\" style=\"--delay:0.0s\"/><rect x=\"933\" y=\"792\" width=\"5\" height=\"3\" rx=\"1\" class=\"server\" style=\"--delay:0.0s\"/><rect x=\"933\" y=\"843\" width=\"5\" height=\"3\" rx=\"1\" class=\"server\" style=\"--delay:0.0s\"/><rect x=\"933\" y=\"861\" width=\"5\" height=\"3\" rx=\"1\" class=\"server\" style=\"--delay:0.0s\"/><rect x=\"933\" y=\"897\" width=\"5\" height=\"3\" rx=\"1\" class=\"server\" style=\"--delay:0.0s\"/><rect x=\"950\" y=\"756\" width=\"5\" height=\"3\" rx=\"1\" class=\"server\" style=\"--delay:-0.12s\"/><rect x=\"950\" y=\"775\" width=\"5\" height=\"3\" rx=\"1\" class=\"server\" style=\"--delay:-0.12s\"/><rect x=\"950\" y=\"809\" width=\"5\" height=\"3\" rx=\"1\" class=\"server\" style=\"--delay:-0.12s\"/><rect x=\"950\" y=\"843\" width=\"5\" height=\"3\" rx=\"1\" class=\"server\" style=\"--delay:-0.12s\"/><rect x=\"950\" y=\"879\" width=\"5\" height=\"3\" rx=\"1\" class=\"server\" style=\"--delay:-0.12s\"/><rect x=\"950\" y=\"897\" width=\"5\" height=\"3\" rx=\"1\" class=\"server\" style=\"--delay:-0.12s\"/><rect x=\"1032\" y=\"756\" width=\"5\" height=\"3\" rx=\"1\" class=\"server\" style=\"--delay:-0.24s\"/><rect x=\"1032\" y=\"792\" width=\"5\" height=\"3\" rx=\"1\" class=\"server\" style=\"--delay:-0.24s\"/><rect x=\"1032\" y=\"809\" width=\"5\" height=\"3\" rx=\"1\" class=\"server\" style=\"--delay:-0.24s\"/><rect x=\"1032\" y=\"861\" width=\"5\" height=\"3\" rx=\"1\" class=\"server\" style=\"--delay:-0.24s\"/><rect x=\"1032\" y=\"879\" width=\"5\" height=\"3\" rx=\"1\" class=\"server\" style=\"--delay:-0.24s\"/><rect x=\"1049\" y=\"775\" width=\"5\" height=\"3\" rx=\"1\" class=\"server\" style=\"--delay:0.0s\"/><rect x=\"1049\" y=\"792\" width=\"5\" height=\"3\" rx=\"1\" class=\"server\" style=\"--delay:0.0s\"/><rect x=\"1049\" y=\"843\" width=\"5\" height=\"3\" rx=\"1\" class=\"server\" style=\"--delay:0.0s\"/><rect x=\"1049\" y=\"861\" width=\"5\" height=\"3\" rx=\"1\" class=\"server\" style=\"--delay:0.0s\"/><rect x=\"1049\" y=\"897\" width=\"5\" height=\"3\" rx=\"1\" class=\"server\" style=\"--delay:0.0s\"/><rect x=\"1082\" y=\"756\" width=\"5\" height=\"3\" rx=\"1\" class=\"server\" style=\"--delay:-0.12s\"/><rect x=\"1082\" y=\"775\" width=\"5\" height=\"3\" rx=\"1\" class=\"server\" style=\"--delay:-0.12s\"/><rect x=\"1082\" y=\"809\" width=\"5\" height=\"3\" rx=\"1\" class=\"server\" style=\"--delay:-0.12s\"/><rect x=\"1082\" y=\"843\" width=\"5\" height=\"3\" rx=\"1\" class=\"server\" style=\"--delay:-0.12s\"/><rect x=\"1082\" y=\"879\" width=\"5\" height=\"3\" rx=\"1\" class=\"server\" style=\"--delay:-0.12s\"/><rect x=\"1082\" y=\"897\" width=\"5\" height=\"3\" rx=\"1\" class=\"server\" style=\"--delay:-0.12s\"/><rect x=\"1097\" y=\"756\" width=\"5\" height=\"3\" rx=\"1\" class=\"server\" style=\"--delay:-0.24s\"/><rect x=\"1097\" y=\"792\" width=\"5\" height=\"3\" rx=\"1\" class=\"server\" style=\"--delay:-0.24s\"/><rect x=\"1097\" y=\"809\" width=\"5\" height=\"3\" rx=\"1\" class=\"server\" style=\"--delay:-0.24s\"/><rect x=\"1097\" y=\"861\" width=\"5\" height=\"3\" rx=\"1\" class=\"server\" style=\"--delay:-0.24s\"/><rect x=\"1097\" y=\"879\" width=\"5\" height=\"3\" rx=\"1\" class=\"server\" style=\"--delay:-0.24s\"/><rect x=\"424\" y=\"747\" width=\"90\" height=\"159\" rx=\"5\" class=\"rack\" style=\"--delay:0.0s\"/><rect x=\"580\" y=\"747\" width=\"38\" height=\"159\" rx=\"5\" class=\"rack\" style=\"--delay:-0.09s\"/><rect x=\"925\" y=\"747\" width=\"43\" height=\"159\" rx=\"5\" class=\"rack\" style=\"--delay:-0.18s\"/><rect x=\"1026\" y=\"747\" width=\"85\" height=\"159\" rx=\"5\" class=\"rack\" style=\"--delay:-0.27s\"/><defs>\n<clipPath id=\"screen-clip\"><path d=\"M516 238L587 234L586 278L516 280Z\"/></clipPath>\n<clipPath id=\"painting-clip\"><path d=\"M179 226L210 231L225 302L187 299Z\"/></clipPath>\n</defs>\n<g clip-path=\"url(#painting-clip)\"><path class=\"paint-stroke\" d=\"M190 258Q199 259 207 270T214 290\" fill=\"none\" stroke=\"#95d8e6\" stroke-width=\"5\" stroke-linecap=\"round\"/></g>\n<g class=\"paint-brush\">\n<path d=\"M224 278L198 260\" stroke=\"#d4af87\" stroke-width=\"2.8\" stroke-linecap=\"round\"/>\n<path d=\"M201 262L197 259\" stroke=\"#b7d4e6\" stroke-width=\"3.5\"/>\n<path d=\"M198 260Q193 260 191 254Q197 254 198 260\" fill=\"#a5e1ef\" stroke=\"#c9f2f5\" stroke-width=\".7\"/>\n</g>\n<g clip-path=\"url(#screen-clip)\">\n<path d=\"M516 238L587 234L586 278L516 280Z\" fill=\"#091d22\"/>\n<g class=\"code-flow\" fill=\"#87d6ac\" font-family=\"monospace\" font-size=\"5\" letter-spacing=\"1.1\">\n<text x=\"519\" y=\"219\">101 011 fn(x)</text><text x=\"519\" y=\"226\" fill=\"#d0f1d8\">010 110 =&gt; 1</text>\n<text x=\"519\" y=\"233\">001 for 101</text><text x=\"519\" y=\"240\">110 001 010</text>\n<text x=\"519\" y=\"247\" fill=\"#c9f7df\">010 return x</text><text x=\"519\" y=\"254\">101 011 fn(x)</text>\n<text x=\"519\" y=\"261\" fill=\"#d0f1d8\">010 110 =&gt; 1</text><text x=\"519\" y=\"268\">001 for 101</text>\n<text x=\"519\" y=\"275\">110 001 010</text><text x=\"519\" y=\"282\" fill=\"#c9f7df\">010 return x</text>\n<text x=\"519\" y=\"289\">101 011 fn(x)</text><text x=\"519\" y=\"296\" fill=\"#d0f1d8\">010 110 =&gt; 1</text>\n</g>\n<path class=\"scanline\" d=\"M516 242H588\" stroke=\"#b6f9d6\" stroke-width=\"1\" opacity=\".4\"/>\n</g>\n<g class=\"lab-frame\" stroke=\"#8fa9c2\" stroke-width=\"1.3\" stroke-linejoin=\"round\">\n<path d=\"M768 306H811V310H768Z\" fill=\"#263b4b\"/>\n<path d=\"M771 305V260H776V305\" fill=\"#172b3b\"/>\n<path d=\"M774 260H807V264H774Z\" fill=\"#638096\"/>\n<path d=\"M785 307V298H790V307M796 307V298H801V307\" fill=\"#163b46\"/>\n</g>\n<g class=\"lab-head\" stroke=\"#a9c5d9\" stroke-width=\"1.1\">\n<path d=\"M780 260H791V277H780Z\" fill=\"#48677e\"/>\n<path d=\"M783 277H788L787 289H785Z\" fill=\"#c0d8e7\"/>\n<circle cx=\"785\" cy=\"267\" r=\"1.5\" fill=\"#a7f5dd\" stroke=\"none\"/>\n<path class=\"pipette-drop\" d=\"M786 291q-2.5 4 0 4t0-4\" fill=\"#a3efdf\" stroke=\"none\"/>\n</g>\n<g fill=\"none\" stroke=\"#a5e4f3\" stroke-linecap=\"round\">\n<path class=\"water-stream\" d=\"M1018 289Q1024 299 1030 313\" stroke-width=\"1.5\"/>\n<path class=\"water-stream\" style=\"animation-delay:-.2s\" d=\"M1021 288Q1029 300 1035 310\" stroke-width=\"1.3\"/>\n<path class=\"water-stream\" style=\"animation-delay:-.4s\" d=\"M1020 291Q1023 304 1027 316\" stroke-width=\"1.1\"/>\n<path class=\"splash\" d=\"M1027 314l-3-2m8 2 3-3m-4 5 4 1\" stroke-width=\"1.3\"/>\n</g>\n<g fill=\"none\" stroke=\"#c5efff\" stroke-width=\"2.1\" stroke-linecap=\"round\">\n<path class=\"music-note\" style=\"--delay:0s\" d=\"M1299 286v-12l7-2v11 M1299 286c-4-2-7 2-3 3 2 0 3-1 3-3 M1306 283c-4-2-7 2-3 3 2 0 3-1 3-3\"/>\n<path class=\"music-note\" style=\"--delay:-.6s\" d=\"M1323 281v-12l7-2v11 M1323 281c-4-2-7 2-3 3 2 0 3-1 3-3 M1330 278c-4-2-7 2-3 3 2 0 3-1 3-3\"/>\n<path class=\"music-note\" style=\"--delay:-1.2s\" d=\"M1201 286v-13l6 3 M1201 286c-4-2-7 2-3 3 2 0 3-1 3-3\"/>\n</g>\n<circle cx=\"719\" cy=\"484\" r=\"10\" class=\"brain-halo\" style=\"--delay:-4.0s\"/><circle cx=\"719\" cy=\"484\" r=\"4\" class=\"brain\" style=\"--delay:-4.0s\"/><circle cx=\"750\" cy=\"469\" r=\"10\" class=\"brain-halo\" style=\"--delay:-3.62s\"/><circle cx=\"750\" cy=\"469\" r=\"4\" class=\"brain\" style=\"--delay:-3.62s\"/><circle cx=\"793\" cy=\"484\" r=\"10\" class=\"brain-halo\" style=\"--delay:-3.24s\"/><circle cx=\"793\" cy=\"484\" r=\"4\" class=\"brain\" style=\"--delay:-3.24s\"/><circle cx=\"814\" cy=\"520\" r=\"10\" class=\"brain-halo\" style=\"--delay:-2.86s\"/><circle cx=\"814\" cy=\"520\" r=\"4\" class=\"brain\" style=\"--delay:-2.86s\"/><circle cx=\"398\" cy=\"479\" r=\"5\" class=\"brain-halo\" style=\"--delay:-4.49s\"/><circle cx=\"398\" cy=\"479\" r=\"1.8\" class=\"brain\" style=\"--delay:-4.49s\"/><circle cx=\"422\" cy=\"474\" r=\"5\" class=\"brain-halo\" style=\"--delay:-4.11s\"/><circle cx=\"422\" cy=\"474\" r=\"1.8\" class=\"brain\" style=\"--delay:-4.11s\"/><circle cx=\"398\" cy=\"504\" r=\"5\" class=\"brain-halo\" style=\"--delay:-3.73s\"/><circle cx=\"398\" cy=\"504\" r=\"1.8\" class=\"brain\" style=\"--delay:-3.73s\"/><circle cx=\"421\" cy=\"493\" r=\"5\" class=\"brain-halo\" style=\"--delay:-3.3499999999999996s\"/><circle cx=\"421\" cy=\"493\" r=\"1.8\" class=\"brain\" style=\"--delay:-3.3499999999999996s\"/><circle cx=\"394\" cy=\"555\" r=\"5\" class=\"brain-halo\" style=\"--delay:-4.98s\"/><circle cx=\"394\" cy=\"555\" r=\"1.8\" class=\"brain\" style=\"--delay:-4.98s\"/><circle cx=\"419\" cy=\"562\" r=\"5\" class=\"brain-halo\" style=\"--delay:-4.6s\"/><circle cx=\"419\" cy=\"562\" r=\"1.8\" class=\"brain\" style=\"--delay:-4.6s\"/><circle cx=\"395\" cy=\"576\" r=\"5\" class=\"brain-halo\" style=\"--delay:-4.22s\"/><circle cx=\"395\" cy=\"576\" r=\"1.8\" class=\"brain\" style=\"--delay:-4.22s\"/><circle cx=\"421\" cy=\"595\" r=\"5\" class=\"brain-halo\" style=\"--delay:-3.84s\"/><circle cx=\"421\" cy=\"595\" r=\"1.8\" class=\"brain\" style=\"--delay:-3.84s\"/><circle cx=\"523\" cy=\"556\" r=\"5\" class=\"brain-halo\" style=\"--delay:-5.47s\"/><circle cx=\"523\" cy=\"556\" r=\"1.8\" class=\"brain\" style=\"--delay:-5.47s\"/><circle cx=\"545\" cy=\"551\" r=\"5\" class=\"brain-halo\" style=\"--delay:-5.09s\"/><circle cx=\"545\" cy=\"551\" r=\"1.8\" class=\"brain\" style=\"--delay:-5.09s\"/><circle cx=\"525\" cy=\"574\" r=\"5\" class=\"brain-halo\" style=\"--delay:-4.71s\"/><circle cx=\"525\" cy=\"574\" r=\"1.8\" class=\"brain\" style=\"--delay:-4.71s\"/><circle cx=\"546\" cy=\"596\" r=\"5\" class=\"brain-halo\" style=\"--delay:-4.33s\"/><circle cx=\"546\" cy=\"596\" r=\"1.8\" class=\"brain\" style=\"--delay:-4.33s\"/><circle cx=\"1113\" cy=\"470\" r=\"5\" class=\"brain-halo\" style=\"--delay:-5.96s\"/><circle cx=\"1113\" cy=\"470\" r=\"1.8\" class=\"brain\" style=\"--delay:-5.96s\"/><circle cx=\"1138\" cy=\"479\" r=\"5\" class=\"brain-halo\" style=\"--delay:-5.58s\"/><circle cx=\"1138\" cy=\"479\" r=\"1.8\" class=\"brain\" style=\"--delay:-5.58s\"/><circle cx=\"1114\" cy=\"495\" r=\"5\" class=\"brain-halo\" style=\"--delay:-5.2s\"/><circle cx=\"1114\" cy=\"495\" r=\"1.8\" class=\"brain\" style=\"--delay:-5.2s\"/><circle cx=\"1136\" cy=\"501\" r=\"5\" class=\"brain-halo\" style=\"--delay:-4.82s\"/><circle cx=\"1136\" cy=\"501\" r=\"1.8\" class=\"brain\" style=\"--delay:-4.82s\"/><circle cx=\"1118\" cy=\"551\" r=\"5\" class=\"brain-halo\" style=\"--delay:-6.45s\"/><circle cx=\"1118\" cy=\"551\" r=\"1.8\" class=\"brain\" style=\"--delay:-6.45s\"/><circle cx=\"1140\" cy=\"558\" r=\"5\" class=\"brain-halo\" style=\"--delay:-6.07s\"/><circle cx=\"1140\" cy=\"558\" r=\"1.8\" class=\"brain\" style=\"--delay:-6.07s\"/><circle cx=\"1115\" cy=\"576\" r=\"5\" class=\"brain-halo\" style=\"--delay:-5.69s\"/><circle cx=\"1115\" cy=\"576\" r=\"1.8\" class=\"brain\" style=\"--delay:-5.69s\"/><circle cx=\"1140\" cy=\"582\" r=\"5\" class=\"brain-halo\" style=\"--delay:-5.3100000000000005s\"/><circle cx=\"1140\" cy=\"582\" r=\"1.8\" class=\"brain\" style=\"--delay:-5.3100000000000005s\"/><circle cx=\"987\" cy=\"561\" r=\"5\" class=\"brain-halo\" style=\"--delay:-6.9399999999999995s\"/><circle cx=\"987\" cy=\"561\" r=\"1.8\" class=\"brain\" style=\"--delay:-6.9399999999999995s\"/><circle cx=\"1005\" cy=\"550\" r=\"5\" class=\"brain-halo\" style=\"--delay:-6.5600000000000005s\"/><circle cx=\"1005\" cy=\"550\" r=\"1.8\" class=\"brain\" style=\"--delay:-6.5600000000000005s\"/><circle cx=\"988\" cy=\"582\" r=\"5\" class=\"brain-halo\" style=\"--delay:-6.18s\"/><circle cx=\"988\" cy=\"582\" r=\"1.8\" class=\"brain\" style=\"--delay:-6.18s\"/><circle cx=\"1009\" cy=\"569\" r=\"5\" class=\"brain-halo\" style=\"--delay:-5.8s\"/><circle cx=\"1009\" cy=\"569\" r=\"1.8\" class=\"brain\" style=\"--delay:-5.8s\"/><circle cx=\"220\" cy=\"524\" r=\"5\" class=\"brain-halo\" style=\"--delay:-7.43s\"/><circle cx=\"220\" cy=\"524\" r=\"1.8\" class=\"brain\" style=\"--delay:-7.43s\"/><circle cx=\"241\" cy=\"534\" r=\"5\" class=\"brain-halo\" style=\"--delay:-7.05s\"/><circle cx=\"241\" cy=\"534\" r=\"1.8\" class=\"brain\" style=\"--delay:-7.05s\"/><circle cx=\"222\" cy=\"544\" r=\"5\" class=\"brain-halo\" style=\"--delay:-6.67s\"/><circle cx=\"222\" cy=\"544\" r=\"1.8\" class=\"brain\" style=\"--delay:-6.67s\"/><circle cx=\"241\" cy=\"556\" r=\"5\" class=\"brain-halo\" style=\"--delay:-6.289999999999999s\"/><circle cx=\"241\" cy=\"556\" r=\"1.8\" class=\"brain\" style=\"--delay:-6.289999999999999s\"/></svg></div></div><div class=\"controls\"><a class=\"skip\" href=\"#chart-1\">Continue to the charts \u2193</a></div></div></section>";
+const img=root.querySelector('img');const imageSource=this.getAttribute('image-src')||'/posts/ai2026-pt1/intro/building.webp';img.src=imageSource+(imageSource.includes('?')?'&':'?')+'v=brain-country-1';
 const camera=root.querySelector('.camera'),section=root.querySelector('.section');
 const reduce=matchMedia('(prefers-reduced-motion: reduce)');
 let raf=0;
